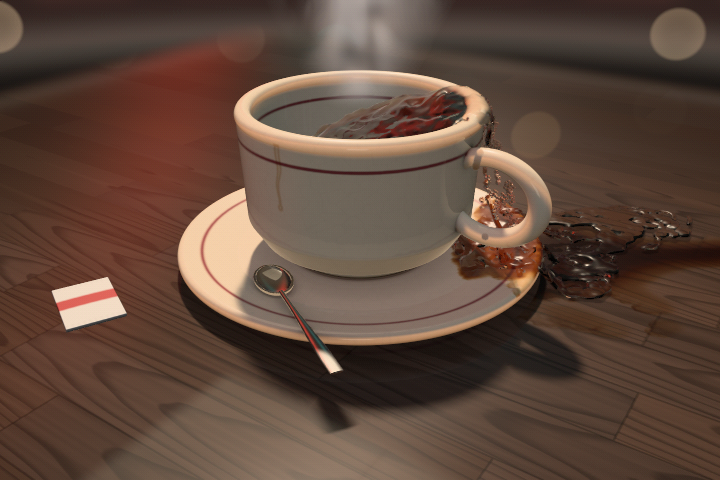
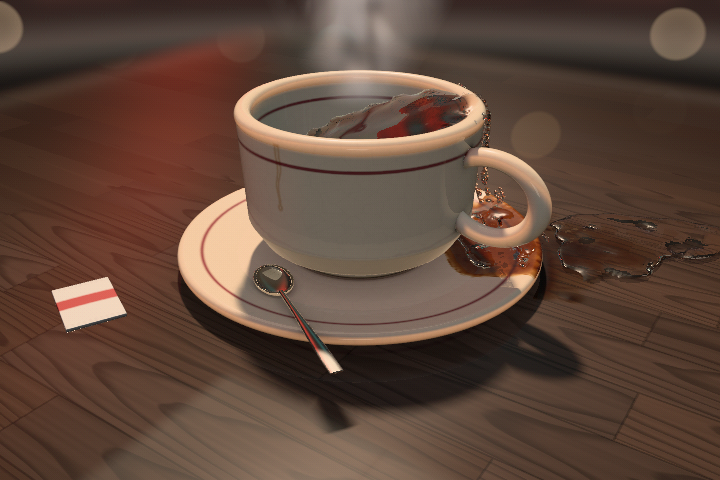
docs: describe surface smoothing and cream optics; refresh cream and spill screenshots

Changed region(s): [[0.6111, 0.3438, 1.0, 0.625], [0.4278, 0.1562, 0.7028, 0.3125], [0.6417, 0.3125, 0.6722, 0.3438]]

diff --git a/README.md b/README.md
@@ -121,7 +121,13 @@ The free surface now uses a finer **224×128×224 covariance-aware reconstructio
 over anisotropic (Yu–Turk) particle kernels: a particle's neighbour covariance
 narrows its kernel across airborne sheets, centres are Laplacian-smoothed, and one
 band-limited smoothing pass plus motion-adaptive blending with the previous frame
-remove particle-scale crumpling and flicker without lagging real motion. Thin
+remove particle-scale crumpling and flicker without lagging real motion. After a
+stir the particles are disordered and leave ~1-cell bumps that read as crinkled
+foil, so upward-facing (height-field) surfaces and table/saucer spills also get a
+wide horizontal Gaussian of the distance (σ ≈ 0.6 cells, bounded change): for
+φ = y − h(x,z) it low-passes h exactly, keeping sloshing waves and splashes. Voxels
+inside the ceramic take the liquid side's horizontal extrapolation, so the
+meniscus meets the glaze cleanly instead of curling into a bright crinkled ring. Thin
 sheets, bounded surface-tension forces and short-range rim adhesion remain. Density-drift
 correction prevents particle bunching from silently shrinking the visible liquid.
 The underlying pressure grid remains 56×32×56; this is still a finite-resolution
@@ -170,11 +176,17 @@ film-geometry solver, and drying time is intentionally accelerated.
 refracted ray samples actual liquid thickness, RGB absorption, and ceramic/table
 behind it: deep coffee is dark; thin spills transmit amber light. Fresnel reflection
 remains at the surface. There is no procedural cream-colored pattern in APIC mode;
-only added cream scatters light. This is a real-time single-path approximation,
+only added cream scatters light. Under a spill the soaked wood loses its diffuse
+backscatter (darkens) and the film has no air-interface mirror of its own, so a
+puddle reads as dark glossy liquid rather than cellophane. This is a real-time single-path approximation,
 not a full multiple-scattering/path-traced renderer.
 
 **Cream is transported, not painted.** A small moving pour adds cream-bearing
-particles. Concentration follows the flow with gentle diffusion. Cold cream is
+particles. Concentration follows the flow; a sub-grid mixing term dissolves
+single-particle specks within seconds while ribbons wider than a cell persist
+until stirring thins them. Cream scatters ~300/unit (10 cm) at full
+concentration, so even a ~6% splash out-scatters the coffee's absorption and
+turns the cup visibly tan. Cold cream is
 modelled ~2.5% denser than hot coffee, so the pour plunges and spreads low until
 stirring lifts it. Stirring is a submerged spoon circling the cup plus a weak bulk
 swirl, with vorticity confinement and wall skin friction, so it sheds shear
